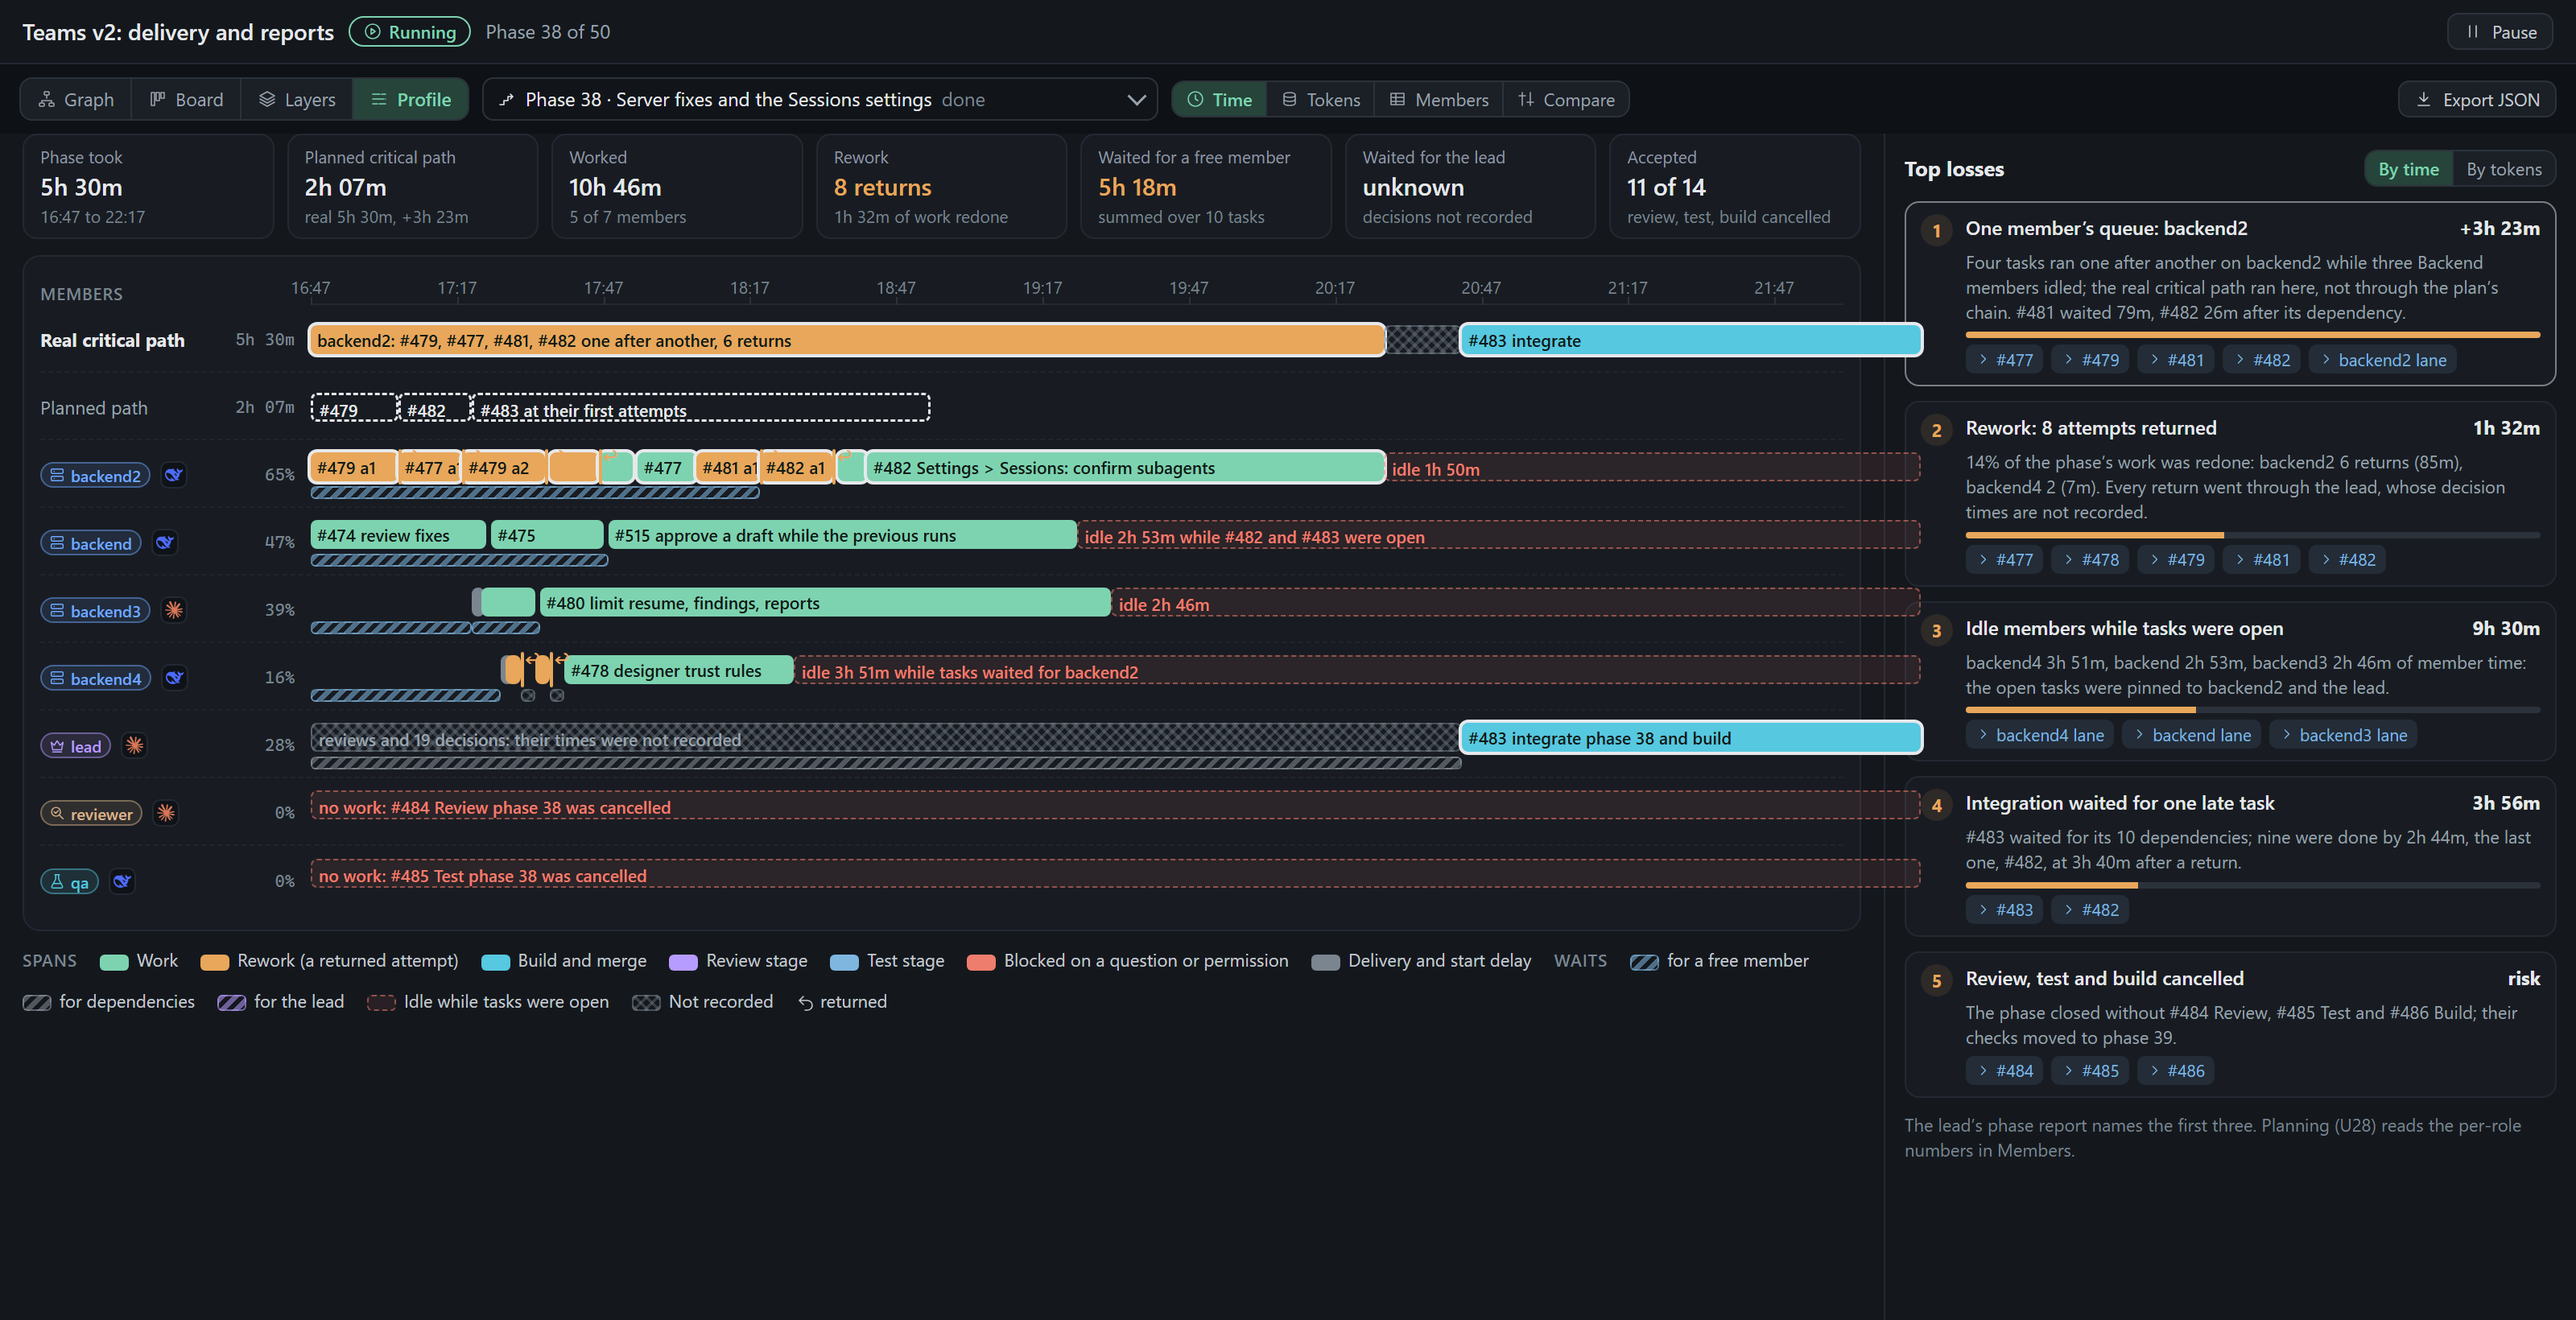
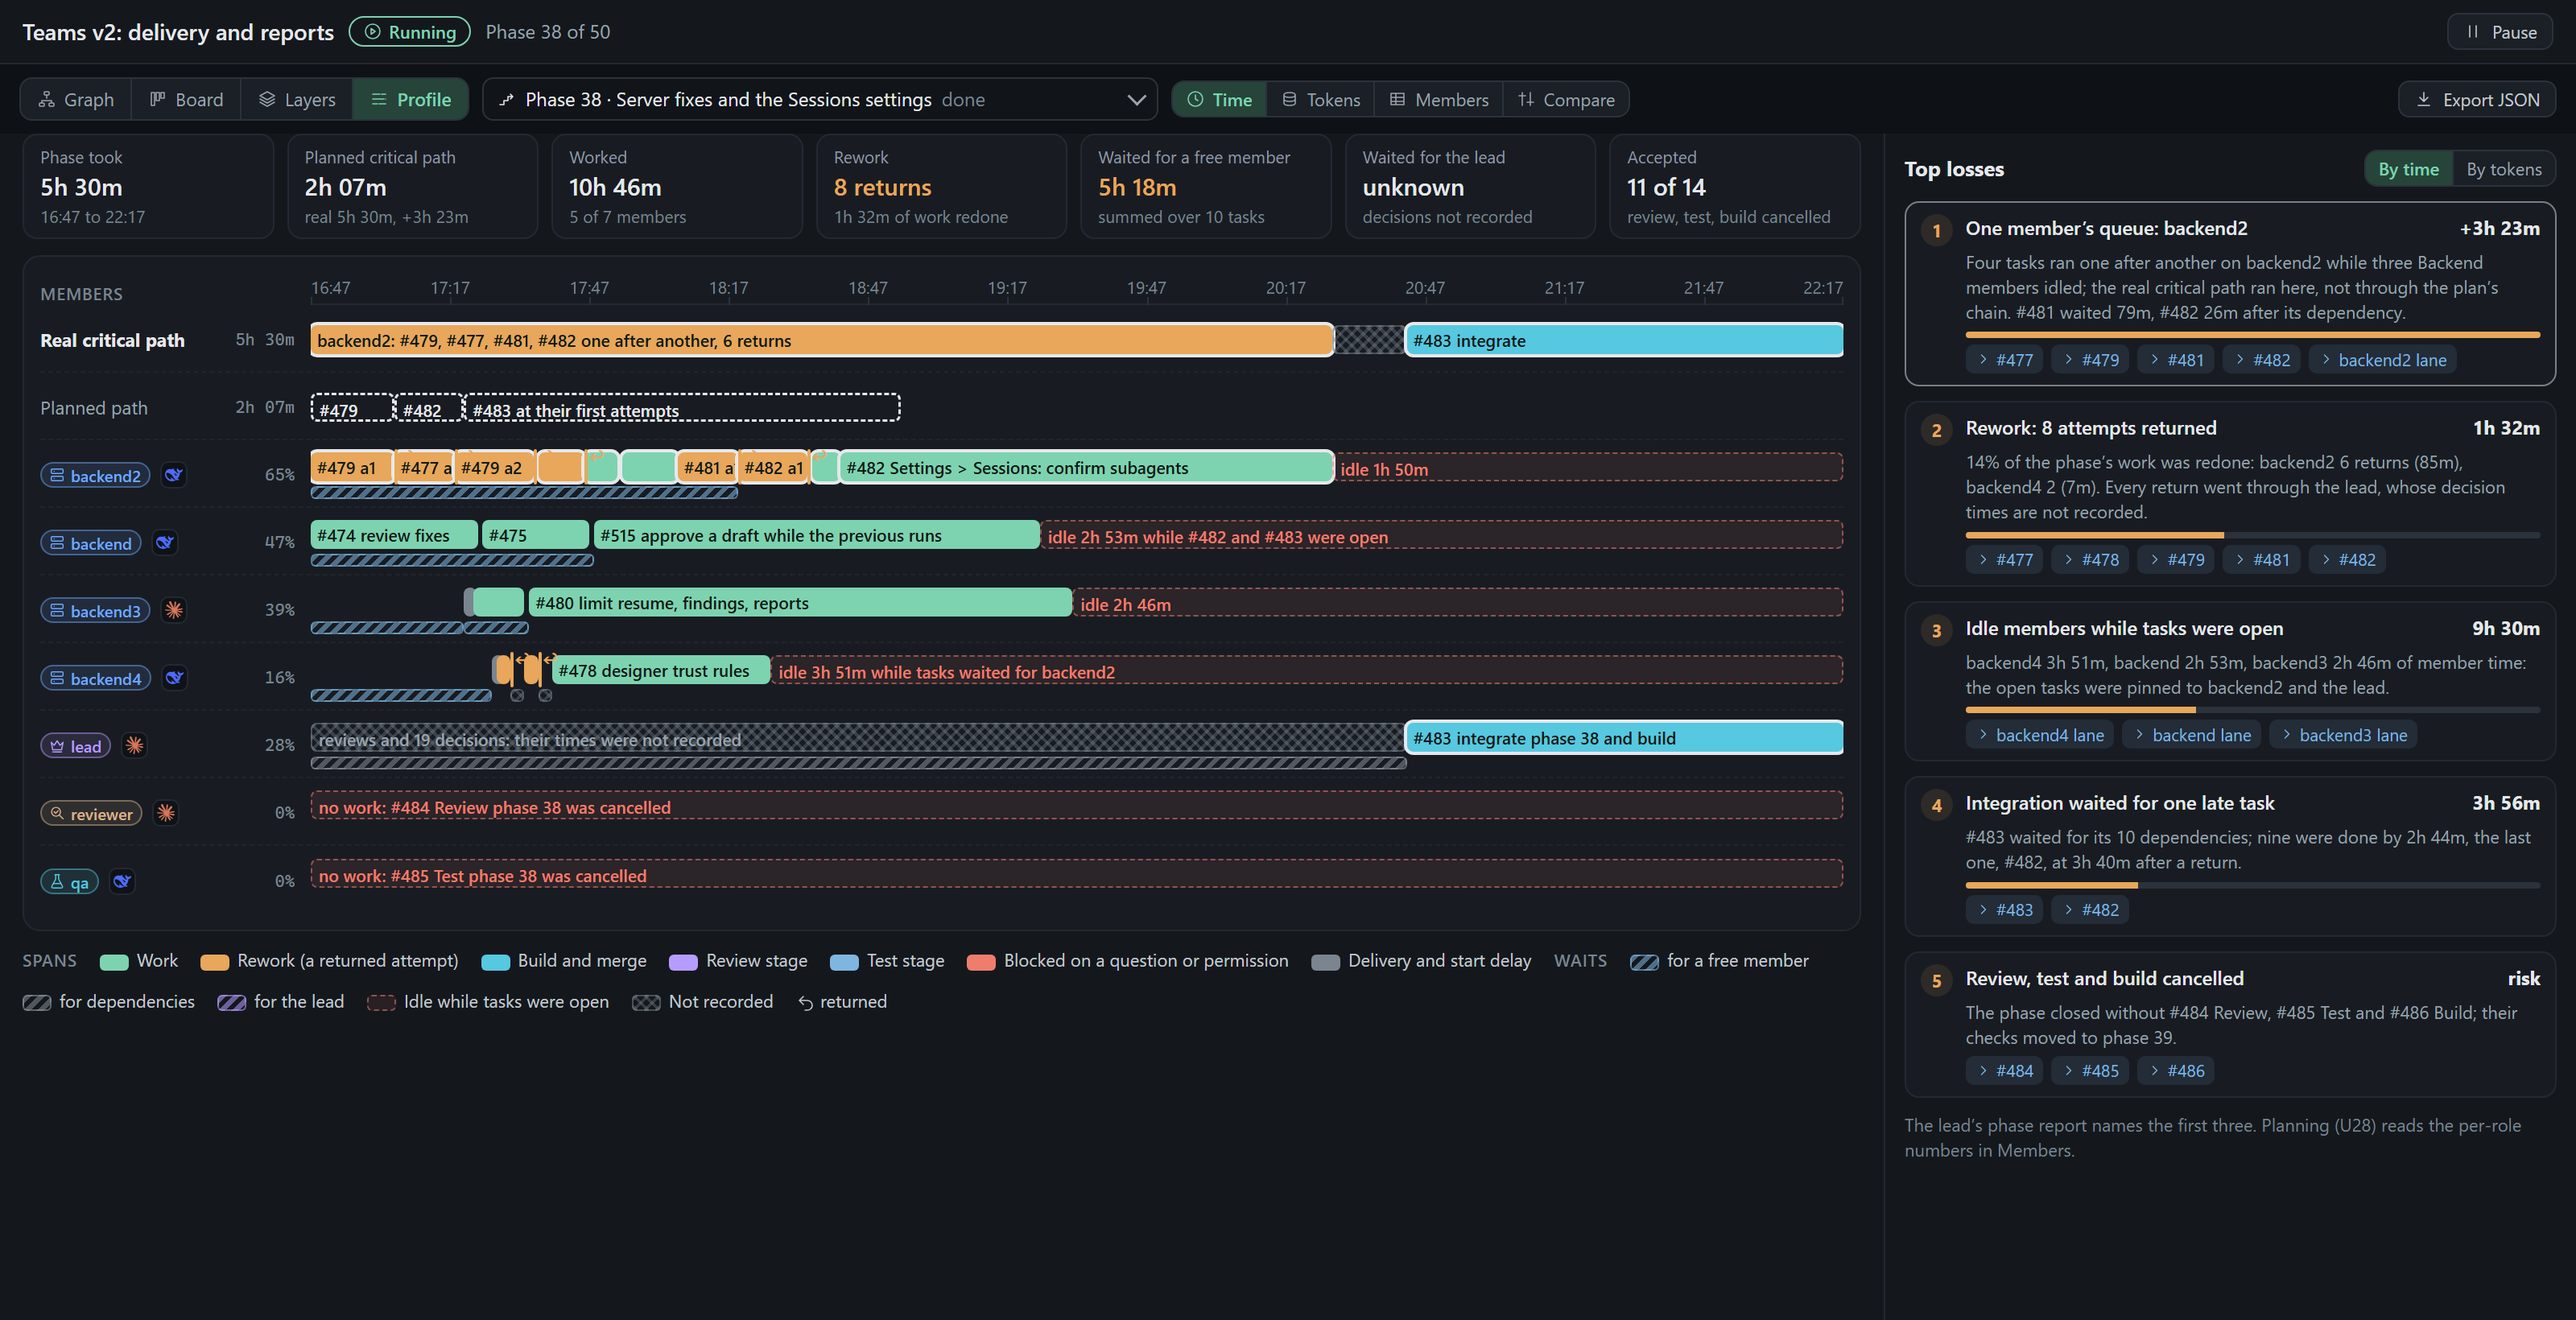
Fork: the profile timeline keeps every bar inside the members card; a span past the phase end is cut off (U38, #661)

diff --git a/design/agent-teams/profile/index.html b/design/agent-teams/profile/index.html
@@ -269,7 +269,8 @@ body.shot{overflow:hidden}
 .lane:last-child{border-bottom:0}
 .lane .who{display:flex;align-items:center;gap:6px;min-width:0;font-size:11.5px}
 .lane .who .u{margin-left:auto;padding-right:10px;color:var(--dim);font-size:10.5px}
-.trk2{position:relative;height:36px}
+.trk2{position:relative;height:36px;overflow:hidden}
+.sp.cut{border-top-right-radius:0;border-bottom-right-radius:0;-webkit-mask-image:linear-gradient(90deg,#000 calc(100% - 14px),transparent);mask-image:linear-gradient(90deg,#000 calc(100% - 14px),transparent)}
 .sp{position:absolute;top:4px;height:18px;border-radius:4px;font-size:10.5px;line-height:18px;padding:0 4px;overflow:hidden;white-space:nowrap;color:var(--accentText);font-weight:600;box-sizing:border-box}
 .sp.q{top:25px;height:8px;border-radius:3px;padding:0;font-size:0}
 .sp.cp{box-shadow:0 0 0 2px var(--fg)}
@@ -443,11 +444,15 @@ Object.assign(IC, {
 });
 // Phase 38 of team 528aebfe, read from `hgs team status` (attempts' sent, start
 // and report times; each task's timing): minutes from 16:47 on 2026-10-27.
-const T0 = 16 * 60 + 47, SPAN = 330, PX = 1000 / SPAN;
+// Positions are shares of the timeline, so every bar and label stays inside
+// the members card; a span past the phase's end is cut there (class cut).
+// PX only sizes a label against the narrowest track (about 900 px).
+const T0 = 16 * 60 + 47, SPAN = 330, PX = 900 / SPAN;
+const pct = (m) => `${(Math.min(Math.max(m, 0), SPAN) / SPAN * 100).toFixed(3)}%`;
 const hm = (m) => { const t = T0 + m; return `${String(Math.floor(t / 60) % 24).padStart(2, '0')}:${String(t % 60).padStart(2, '0')}`; };
 const dur = (m) => m >= 60 ? `${Math.floor(m / 60)}h ${String(Math.round(m % 60)).padStart(2, '0')}m` : `${Math.round(m)}m`;
-const sp = (a, b, k, label = '', o = {}) => `<span class="sp k-${k} ${o.q ? 'q' : ''} ${o.cp ? 'cp' : ''} ${['queue', 'deps', 'lead', 'unk'].includes(k) ? 'hatch' : ''}" style="left:${a * PX}px;width:${Math.max(2, (b - a) * PX)}px" title="${label}">${(b - a) * PX > 34 ? label : ''}</span>`;
-const tickAt = (m) => `<span class="tick" style="left:${m * PX}px" title="returned by the lead"></span>`;
+const sp = (a, b, k, label = '', o = {}) => `<span class="sp k-${k} ${o.q ? 'q' : ''} ${o.cp ? 'cp' : ''} ${b > SPAN ? 'cut' : ''} ${['queue', 'deps', 'lead', 'unk'].includes(k) ? 'hatch' : ''}" style="left:${pct(a)};width:max(2px, calc(${pct(b)} - ${pct(a)}))" title="${label}${b > SPAN ? ' (runs past the phase’s end)' : ''}">${(Math.min(b, SPAN) - a) * PX > 34 ? label : ''}</span>`;
+const tickAt = (m) => `<span class="tick" style="left:${pct(m)}" title="returned by the lead"></span>`;
 const AG = { dsh: 'deepseek', claude: 'claude' };
 const RK = (who) => who === 'lead' ? 'lead' : who === 'reviewer' ? 'reviewer' : who === 'qa' ? 'tester' : 'backend';
 const LANES = [
@@ -477,12 +482,12 @@ const laneHtml = (l) => {
     <div class="trk2">${l.spans.map(s => sp(s[0], s[1], s[2], s[3], { cp: cpOn(s) })).join('')}${(l.ticks || []).map(tickAt).join('')}
       ${(l.queue || []).map(s => sp(s[0], s[1], s[2], s[3], { q: true })).join('')}</div></div>`;
 };
-const axis = () => `<div class="axis"><span class="ih">Members</span><div class="ticks">${Array.from({ length: 11 }, (_, i) => i * 30).map(m => `<i style="left:${m * PX}px"></i><span style="left:${m * PX}px">${hm(m)}</span>`).join('')}</div></div>`;
+const axis = () => `<div class="axis"><span class="ih">Members</span><div class="ticks">${Array.from({ length: 12 }, (_, i) => i * 30).map(m => `<i style="left:${m >= SPAN ? 'calc(100% - 1px)' : pct(m)}"></i><span style="left:${pct(m)};transform:translateX(${m === 0 ? '0' : m >= SPAN ? '-100%' : '-50%'})">${hm(m)}</span>`).join('')}</div></div>`;
 const pathRows = () => `
   <div class="lane pathrow"><span class="who"><b>Real critical path</b><span class="u mono">5h 30m</span></span><div class="trk2">
     ${sp(0, 220, 'rework', 'backend2: #479, #477, #481, #482 one after another, 6 returns', { cp: true })}${sp(220, 236, 'unk', '')}${sp(236, 330, 'build', '#483 integrate', { cp: true })}</div></div>
   <div class="lane pathrow"><span class="who"><span class="muted">Planned path</span><span class="u mono">2h 07m</span></span><div class="trk2">
-    <span class="sp pp" style="left:0;width:${18 * PX}px">#479</span><span class="sp pp" style="left:${18 * PX}px;width:${15 * PX}px">#482</span><span class="sp pp" style="left:${33 * PX}px;width:${94 * PX}px">#483 at their first attempts</span></div></div>`;
+    <span class="sp pp" style="left:0;width:${pct(18)}">#479</span><span class="sp pp" style="left:${pct(18)};width:calc(${pct(33)} - ${pct(18)})">#482</span><span class="sp pp" style="left:${pct(33)};width:calc(${pct(127)} - ${pct(33)})">#483 at their first attempts</span></div></div>`;
 const legend = (more = '') => `<div class="legend"><span class="g">Spans</span>
   <span><i class="sw k-work"></i>Work</span><span><i class="sw k-rework"></i>Rework (a returned attempt)</span><span><i class="sw k-build"></i>Build and merge</span>
   <span><i class="sw k-review"></i>Review stage</span><span><i class="sw k-test"></i>Test stage</span><span><i class="sw k-block"></i>Blocked on a question or permission</span><span><i class="sw k-delay"></i>Delivery and start delay</span>
